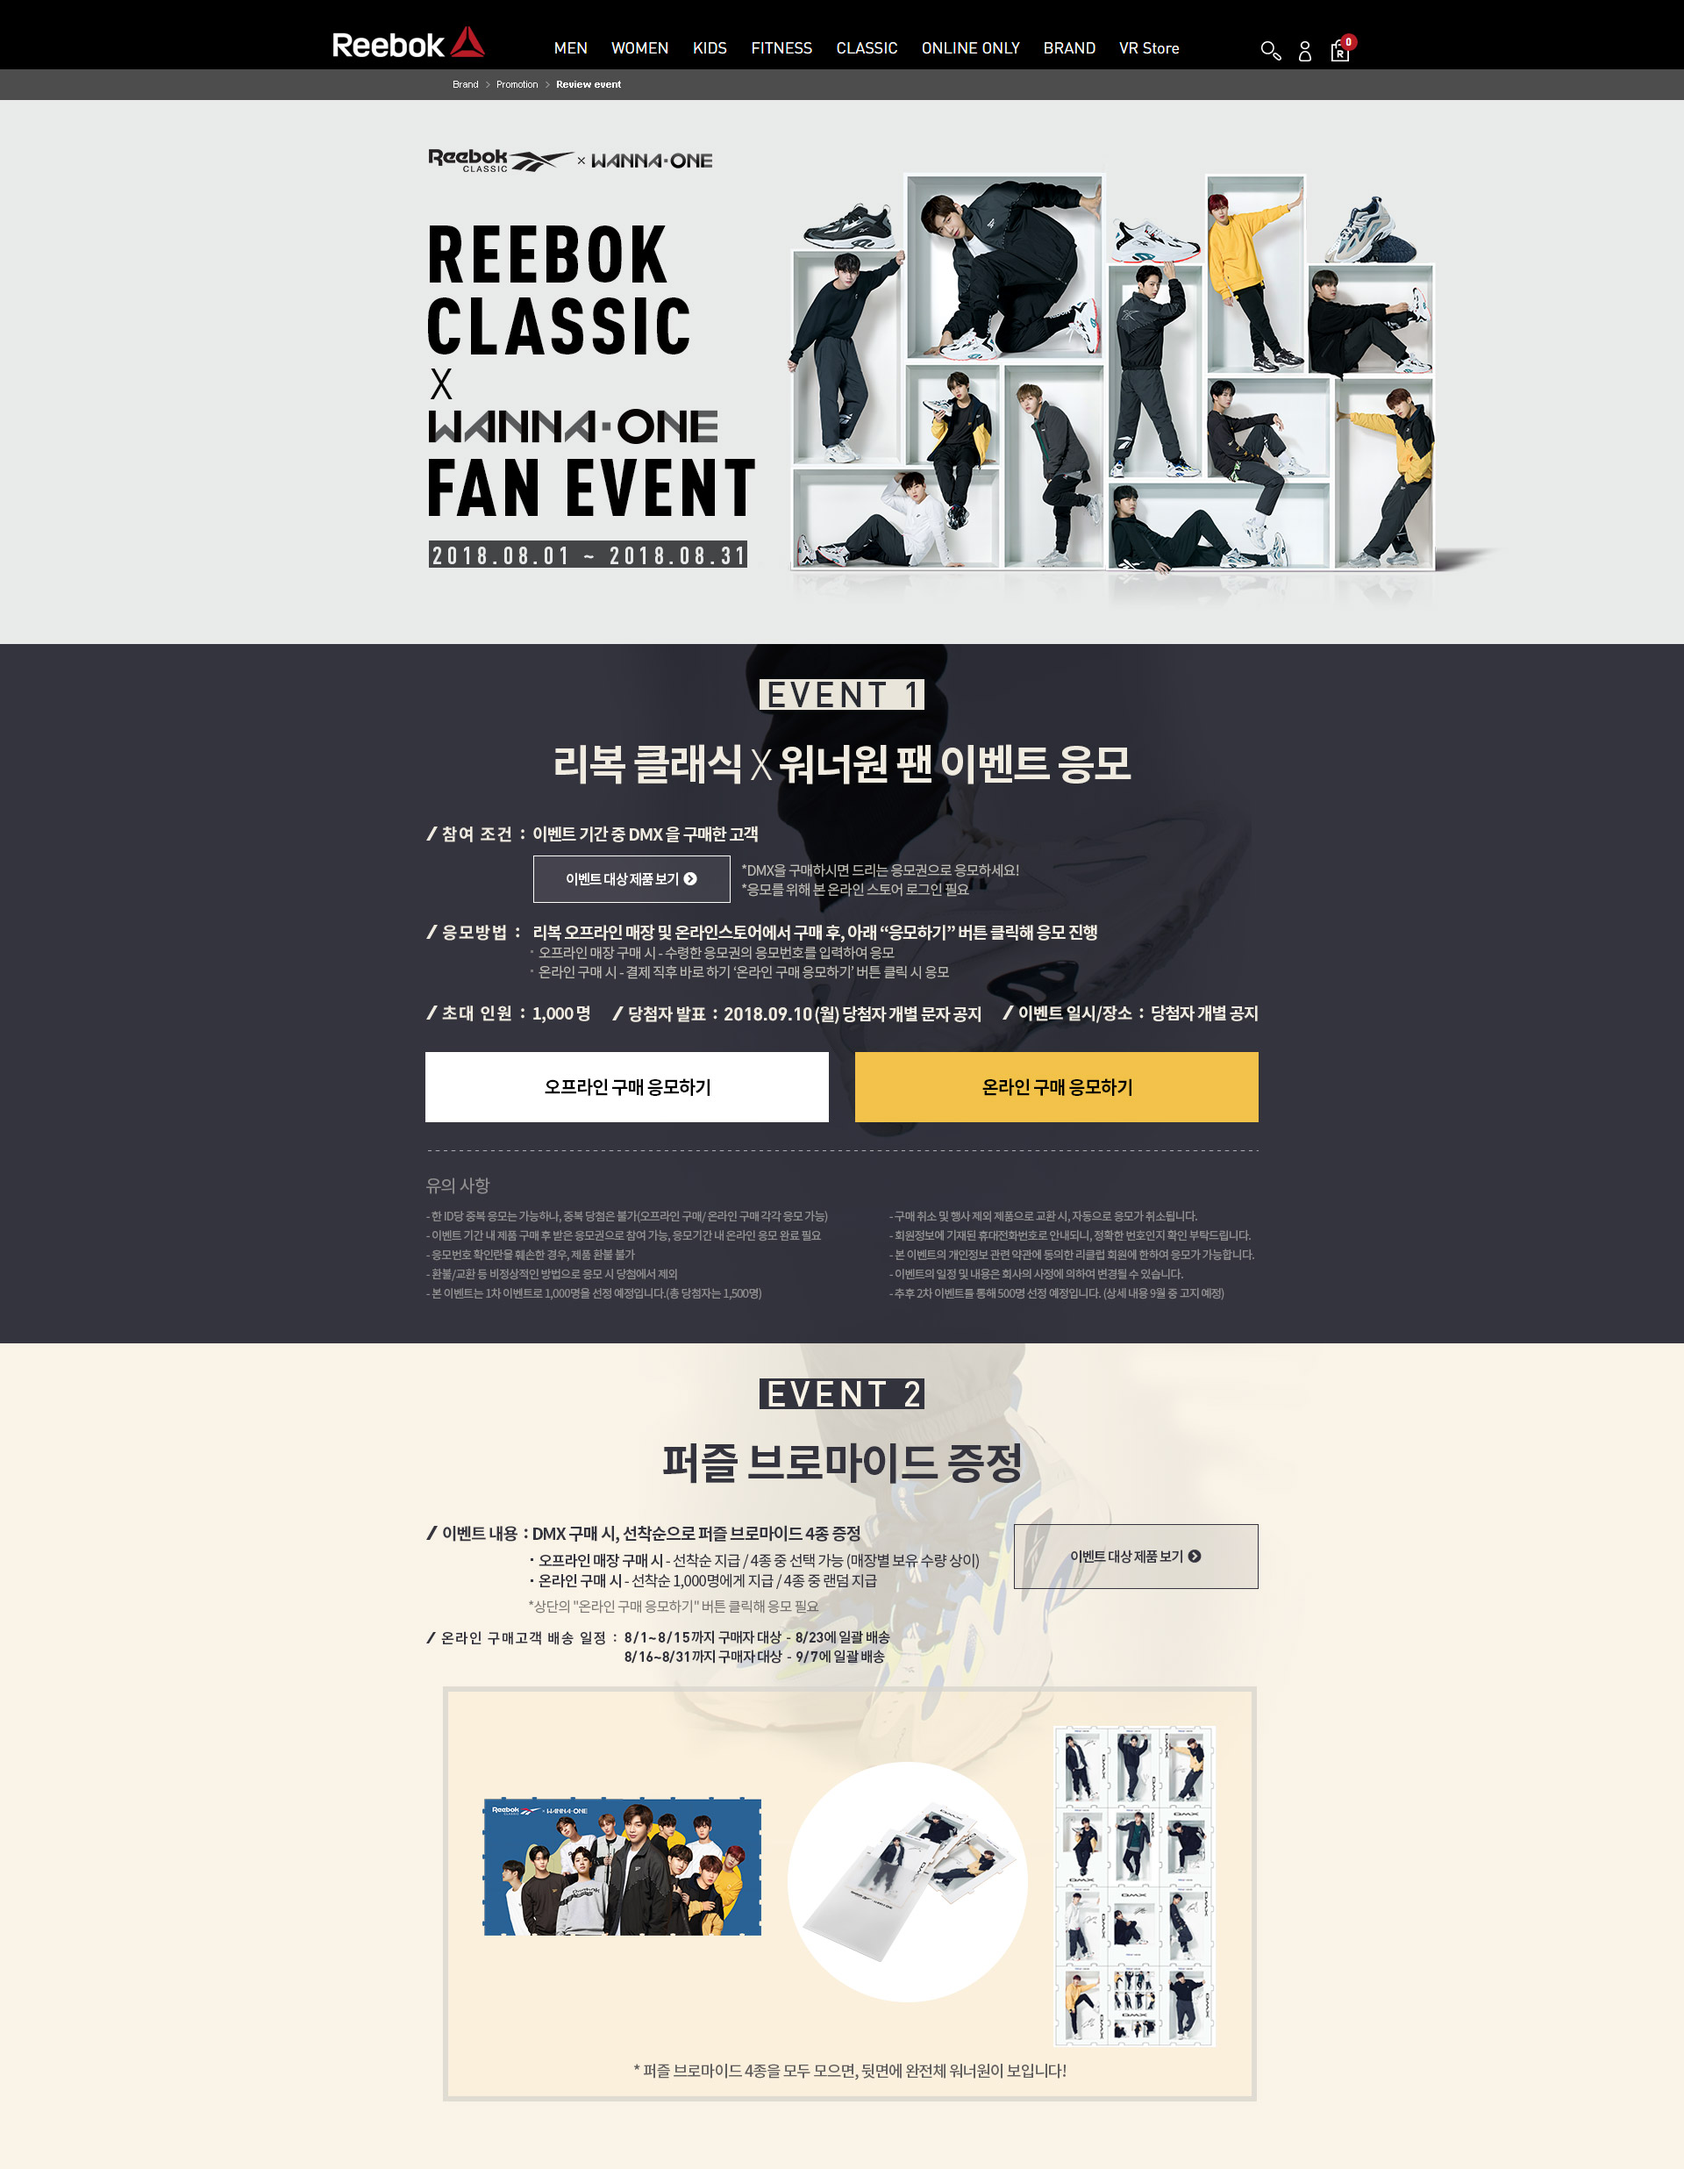
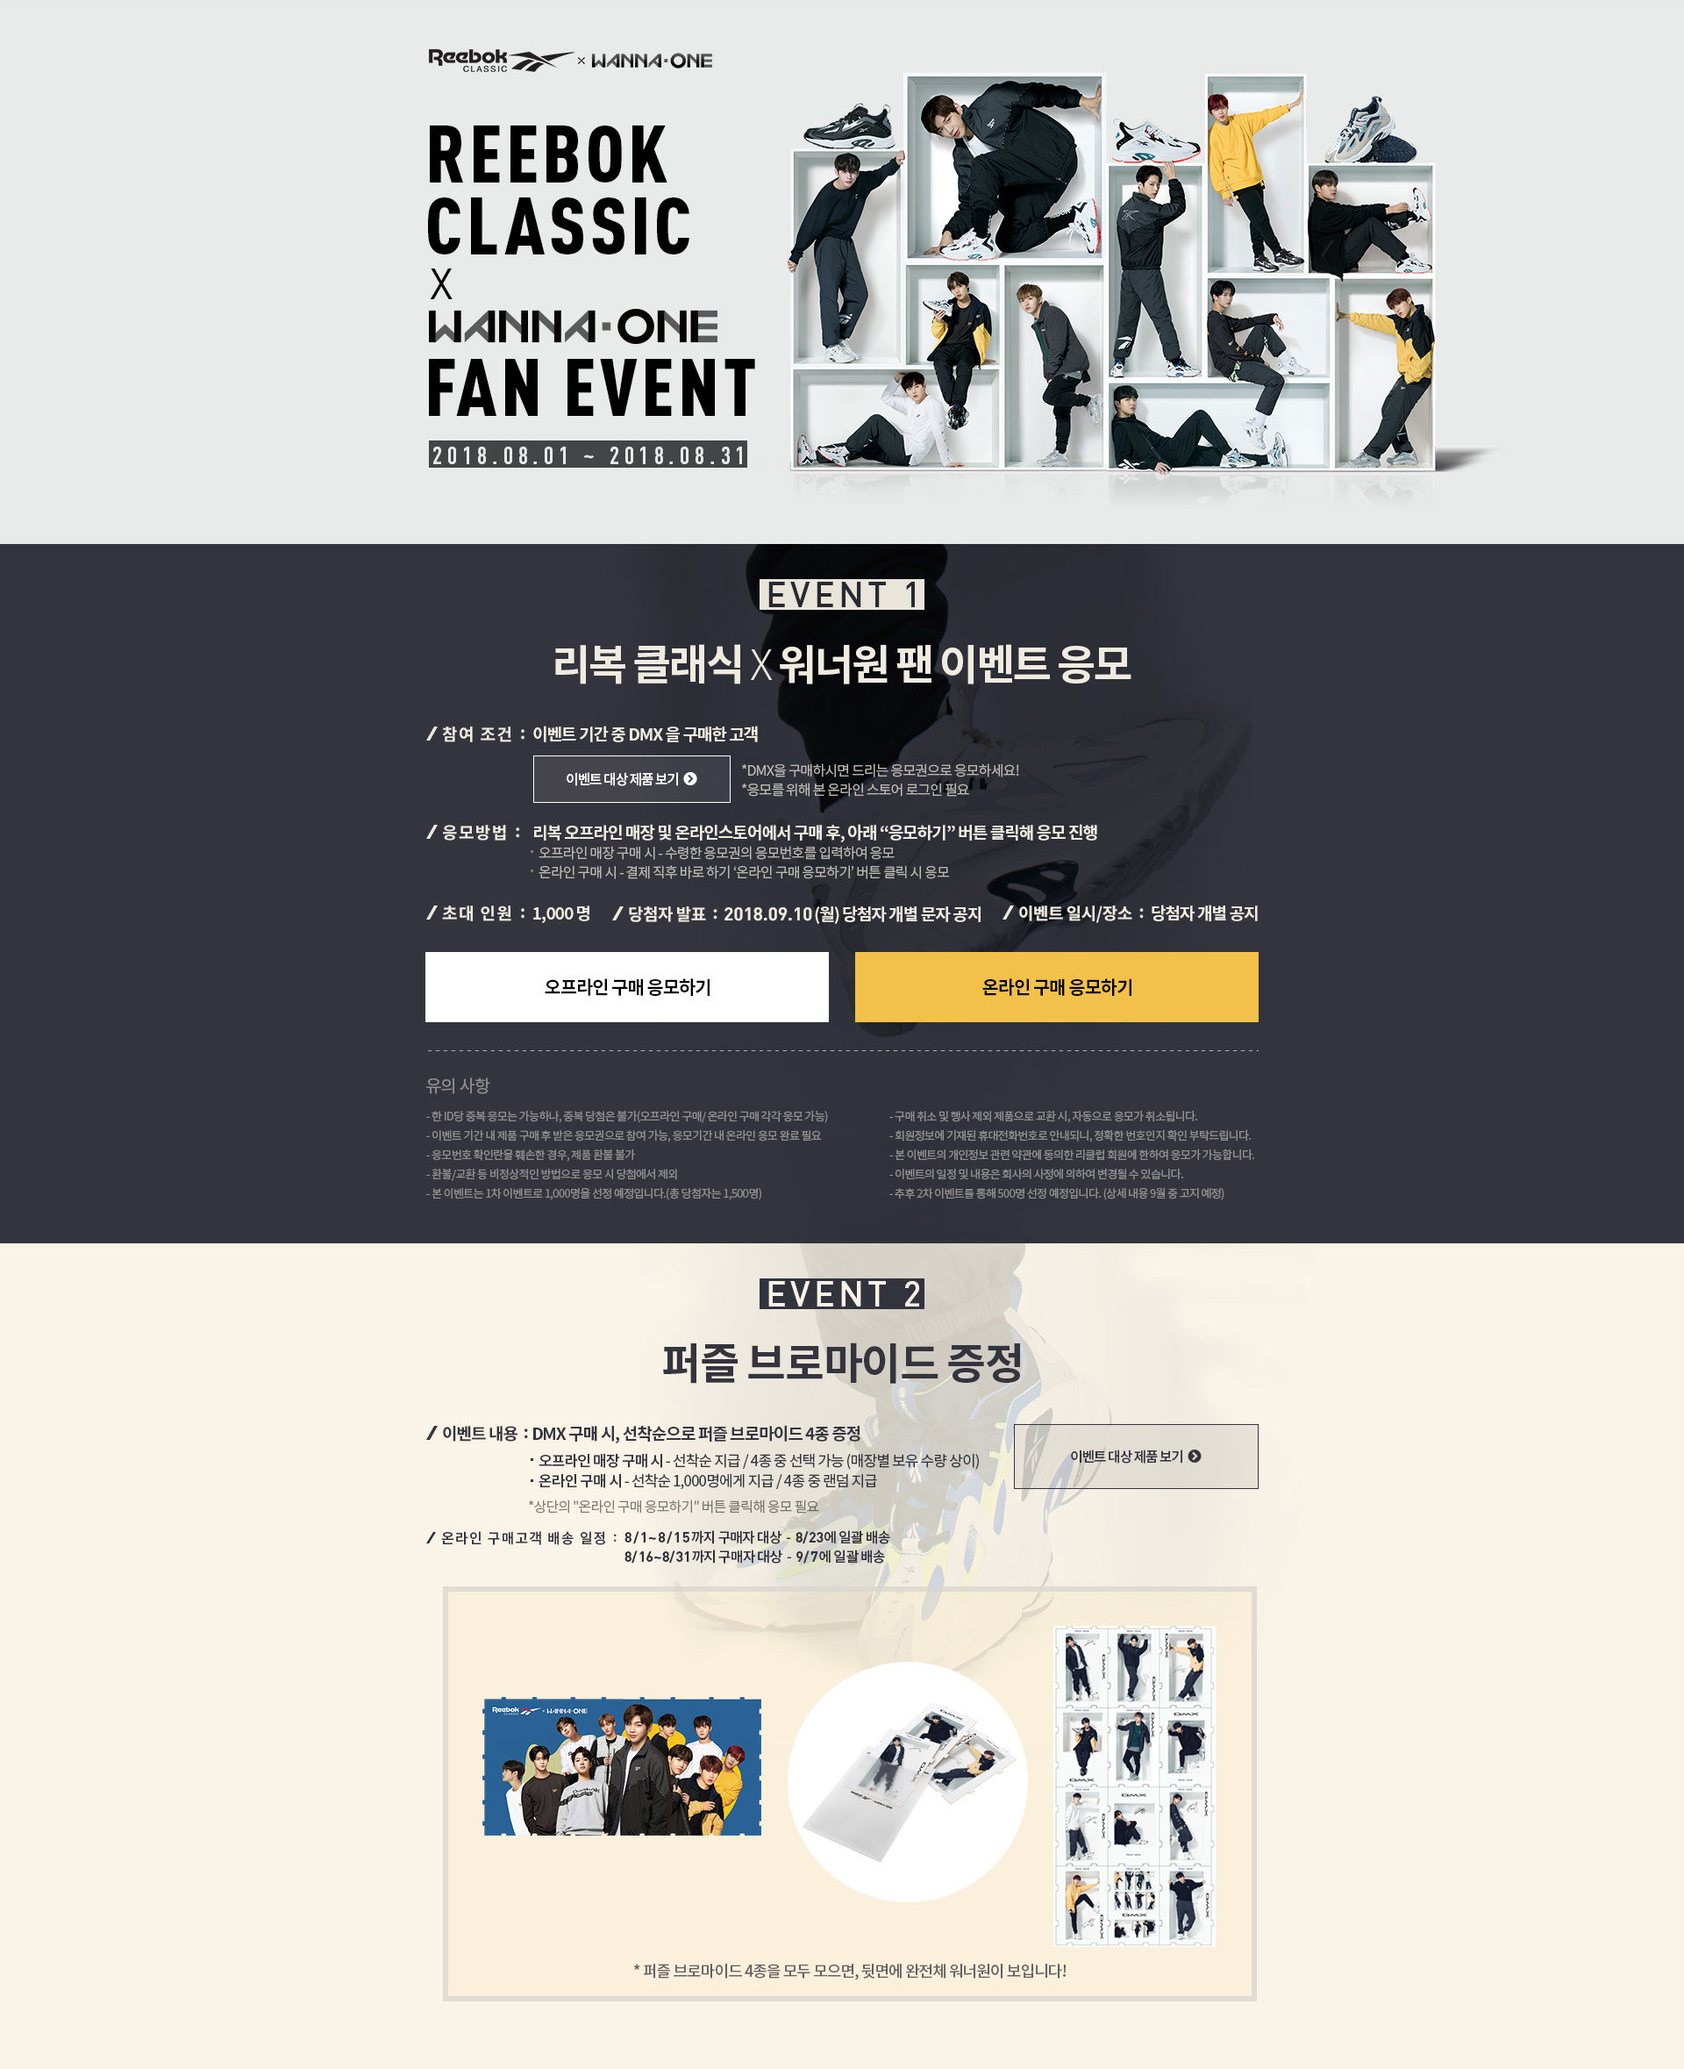
-

Changed region(s): [[0.0, 0.0, 1.0, 0.9597]]

diff --git a/app/html/reebok/Campaign/5205/index.html b/app/html/reebok/Campaign/5205/index.html
@@ -559,10 +559,10 @@
                     <div class="cont_area">
                         <img src="http://image.reebok.co.kr/upload/campaign/reebok/5205/1807_r_dmx_DT.jpg" alt="" usemap="#Map01">
                         <map name="Map01" id="Map01">
-                          <area shape="rect" coords="610,977,830,1026" href="http://shop.reebok.co.kr/RPF070801.action?pageNo=651" onfocus="blur()" alt="이벤트 대상 제품 보기"/>
-                          <area shape="rect" coords="485,1200,943,1277" href="#; none;" alt="오프라인 구매 응모하기" onfocus="blur()" class="btn_entry2"/>
-                          <area shape="rect" coords="976,1200,1432,1277" href="#; none;" alt="온라인 구매 응모하기" onfocus="blur()" class="btn_entry1"/>
-                          <area shape="rect" coords="1158,1738,1432,1809" href="http://shop.reebok.co.kr/RPF070801.action?pageNo=651" onfocus="blur()" alt="이벤트 대상 제품 보기"/>
+                          <area shape="rect" coords="609,861,831,914" href="http://shop.reebok.co.kr/RPF070801.action?pageNo=651" onfocus="blur()" alt="이벤트 대상 제품 보기"/>
+                          <area shape="rect" coords="485,1085,944,1164" href="#; none;" alt="오프라인 구매 응모하기" onfocus="blur()" class="btn_entry2"/>
+                          <area shape="rect" coords="975,1085,1433,1163" href="#; none;" alt="온라인 구매 응모하기" onfocus="blur()" class="btn_entry1"/>
+                          <area shape="rect" coords="1156,1623,1434,1695" href="http://shop.reebok.co.kr/RPF070801.action?pageNo=651" onfocus="blur()" alt="이벤트 대상 제품 보기"/>
                         </map>
 					</div>
 
